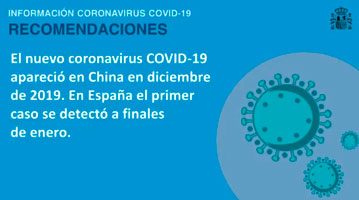
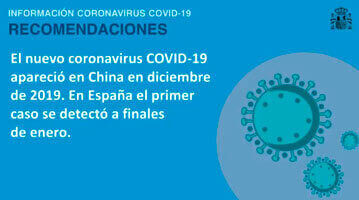
fix/img-resolution

diff --git a/www/index.html b/www/index.html
@@ -490,7 +490,7 @@
                 <div class="row">
                   <div class="col-4 carousel-img">
                     <div class="client_img-box">
-                      <img data-src="images/slide/medical.png" alt="" class="lazyload">
+                      <img data-src="images/slide/medical.jpg" alt="" class="lazyload">
                     </div>
                   </div>
                   <div class="col-xd-12 col-md-8 carousel-txt pb-4">
@@ -526,7 +526,7 @@
                 <div class="row">
                   <div class="col-4 carousel-img">
                     <div class="client_img-box">
-                      <img data-src="images/slide/sick.png" alt="" class="lazyload">
+                      <img data-src="images/slide/sick.jpg" alt="" class="lazyload">
                     </div>
                   </div>
                   <div class="col-md-8  col-xs-6 carousel-txt">
@@ -552,7 +552,7 @@
                 <div class="row">
                   <div class="col-4 carousel-img">
                     <div class="client_img-box">
-                      <img data-src="images/slide/news.png" alt="" class="lazyload">
+                      <img data-src="images/slide/news.jpg" alt="" class="lazyload">
                     </div>
                   </div>
                   <div class="col-8 carousel-txt">

diff --git a/www/protocolos.html b/www/protocolos.html
@@ -438,7 +438,7 @@
               <div class="row">
                 <div class="col-4 carousel-img">
                   <div class="client_img-box">
-                    <img src="images/slide/medical.png" alt="">
+                    <img src="images/slide/medical.jpg" alt="">
                   </div>
                 </div>
                 <div class="col-xd-12 col-md-8 carousel-txt pb-4">
@@ -474,7 +474,7 @@
               <div class="row">
                 <div class="col-4 carousel-img">
                   <div class="client_img-box">
-                    <img src="images/slide/sick.png" alt="">
+                    <img src="images/slide/sick.jpg" alt="">
                   </div>
                 </div>
                 <div class="col-md-8  col-xs-6 .offset-xs-3 carousel-txt">
@@ -500,7 +500,7 @@
               <div class="row">
                 <div class="col-4 carousel-img">
                   <div class="client_img-box">
-                    <img src="images/slide/news.png" alt="">
+                    <img src="images/slide/news.jpg" alt="">
                   </div>
                 </div>
                 <div class="col-md-8  col-xs-10 .offset-xs-1 carousel-txt">
